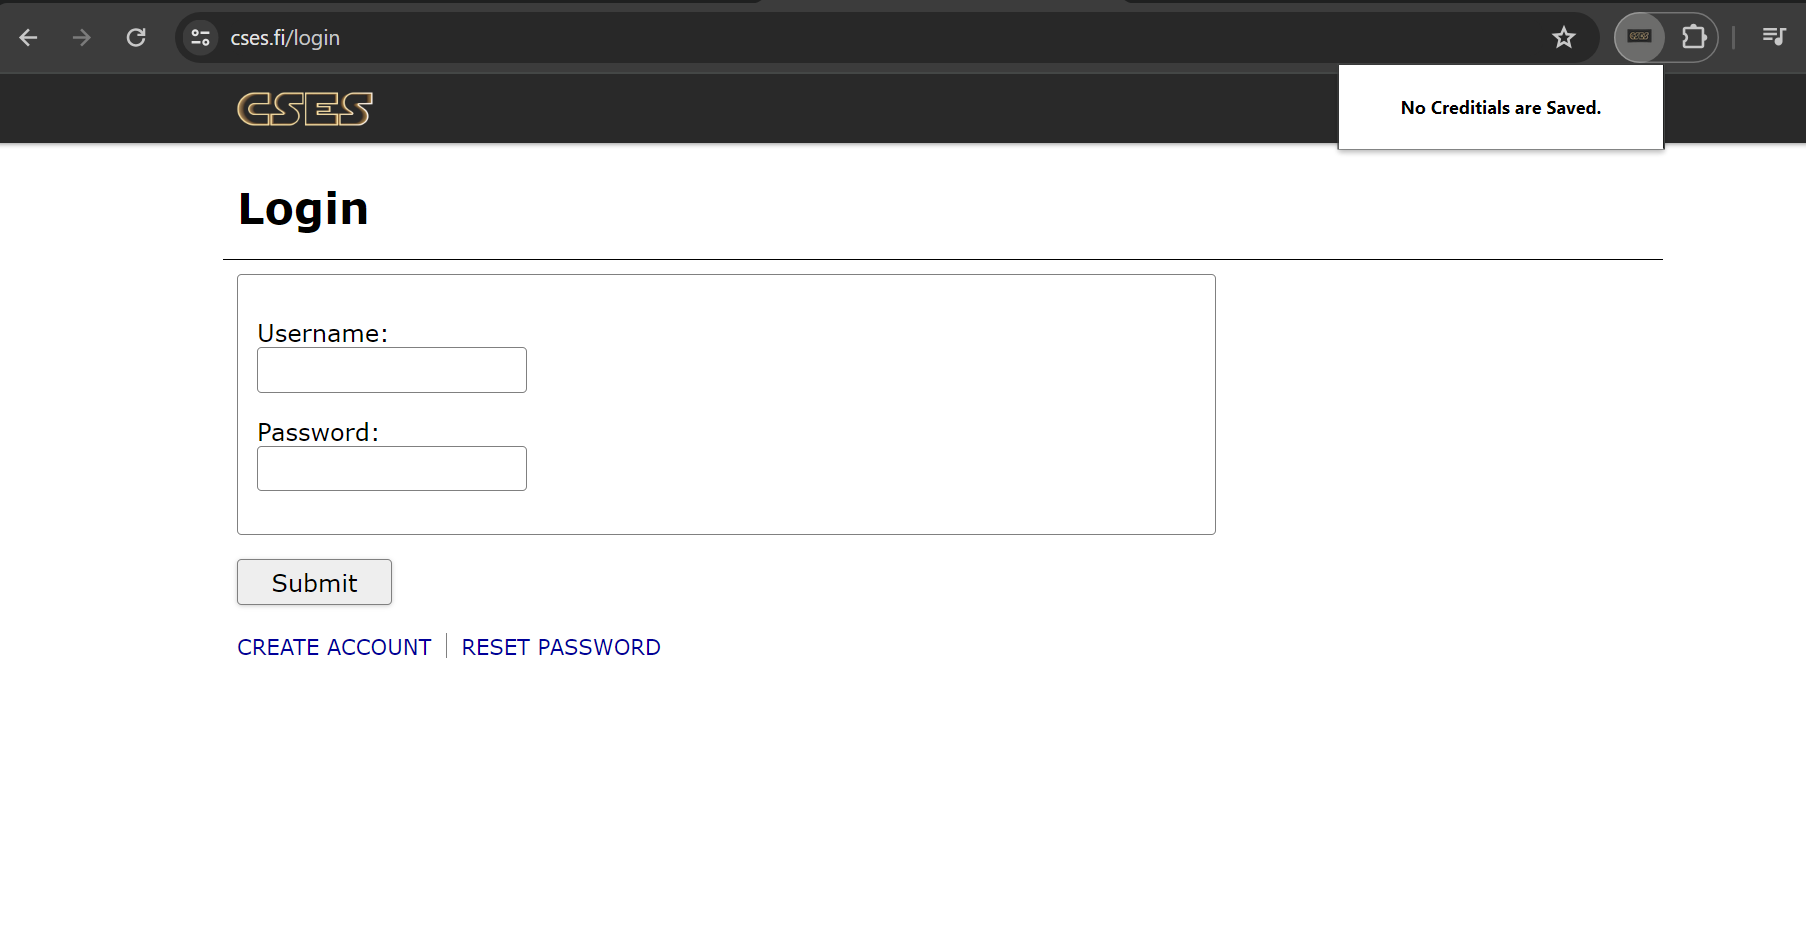
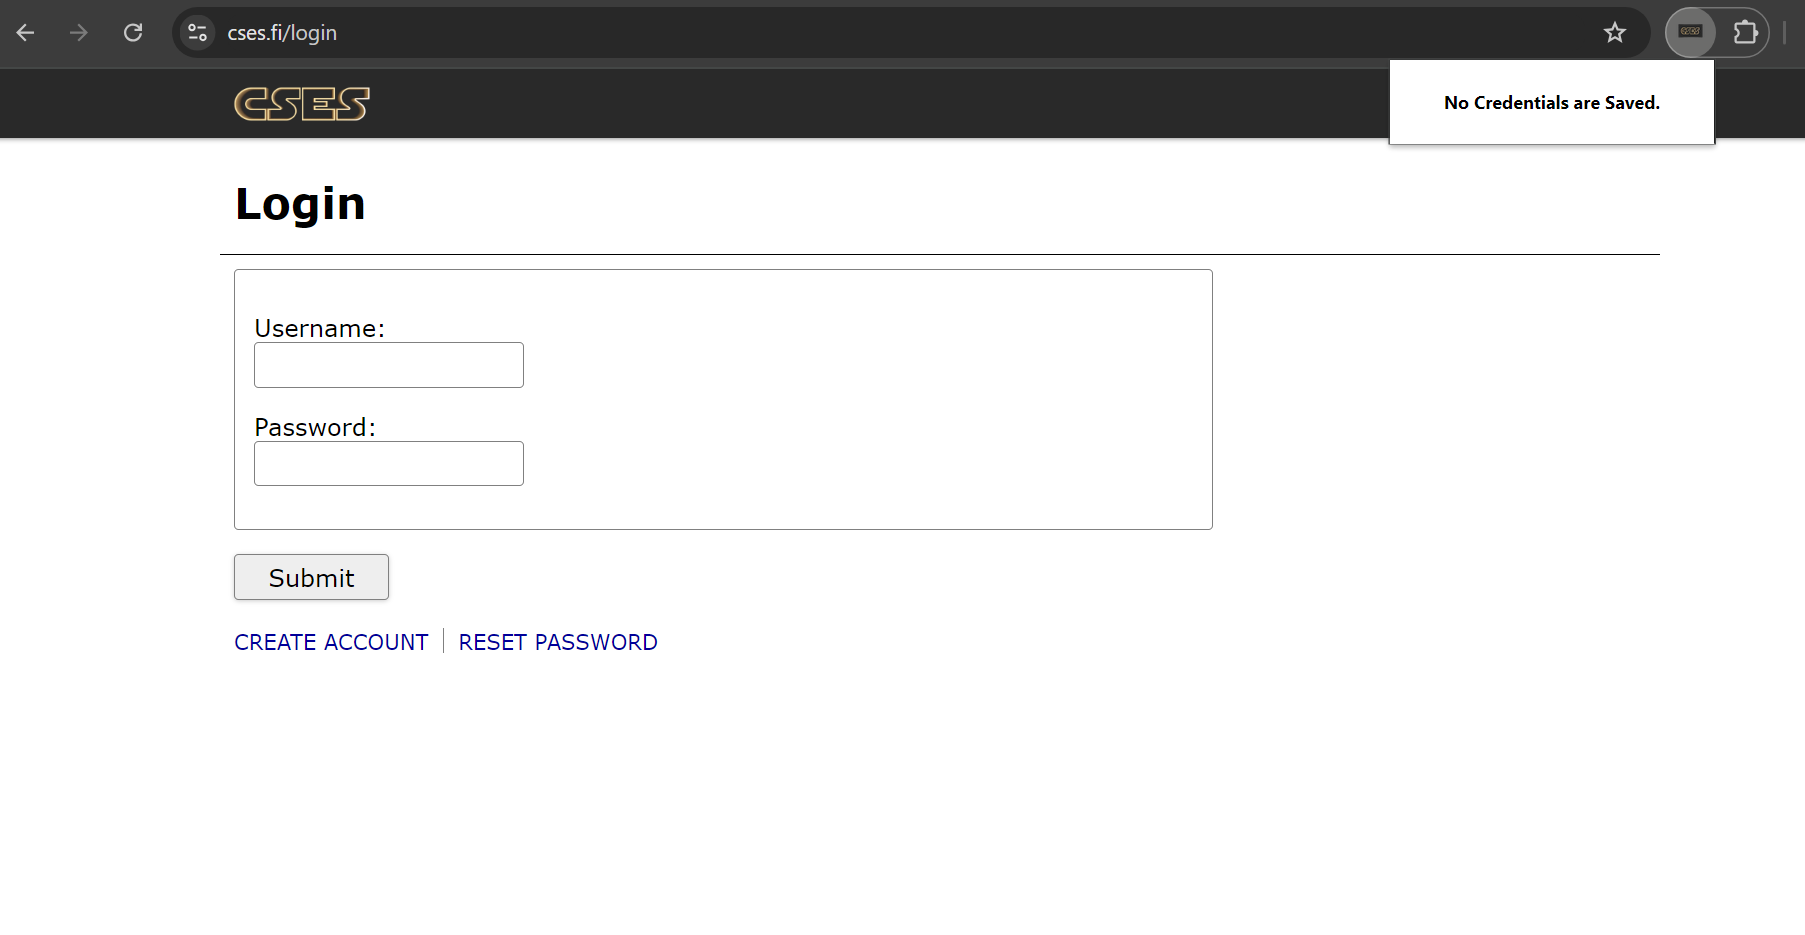
corrected typos

diff --git a/popup.html b/popup.html
@@ -1,4 +1,4 @@
-<!-- Createor: Kshitij Negi -->
+<!-- Creator: Kshitij Negi -->
 <!DOCTYPE html>
 <html>
   <head>
@@ -6,7 +6,7 @@
     <link rel="stylesheet" href="./static/popup.css">
   </head>
   <body>
-    <p id="txt">No Creditials are Saved.</p>
+    <p id="txt">No Credentials are Saved.</p>
     <button id="clear">Clear</button>
     <script src="./scripts/popup.js"></script>
   </body>

diff --git a/scripts/popup.js b/scripts/popup.js
@@ -1,4 +1,4 @@
-// Createor: Kshitij Negi
+// Creator: Kshitij Negi
 document.getElementById('clear').addEventListener('click', function() {
     chrome.storage.sync.clear();
     document.getElementById('txt').textContent = "No Creditials are Saved.";

diff --git a/scripts/background.js b/scripts/background.js
@@ -1,4 +1,4 @@
-// Createor: Kshitij Negi
+// Creator: Kshitij Negi
 // chrome.runtime.onMessage.addListener(function (request, sender, sendResponse) {
 //     if (request.action === "startChanges") {
 //       //forwarding it to the popup.js

diff --git a/scripts/content.js b/scripts/content.js
@@ -1,4 +1,4 @@
-// Createor: Kshitij Negi
+// Creator: Kshitij Negi
 // Auto-fill creds when the page loads
 chrome.storage.sync.get(['savedUsername', 'savedPassword'], function(data) {
     if (data.savedUsername && data.savedPassword) {

diff --git a/static/popup.css b/static/popup.css
@@ -1,4 +1,4 @@
-/* Createor: Kshitij Negi */
+/* Creator: Kshitij Negi */
 body{
     width: 200px;
     display: flex;
